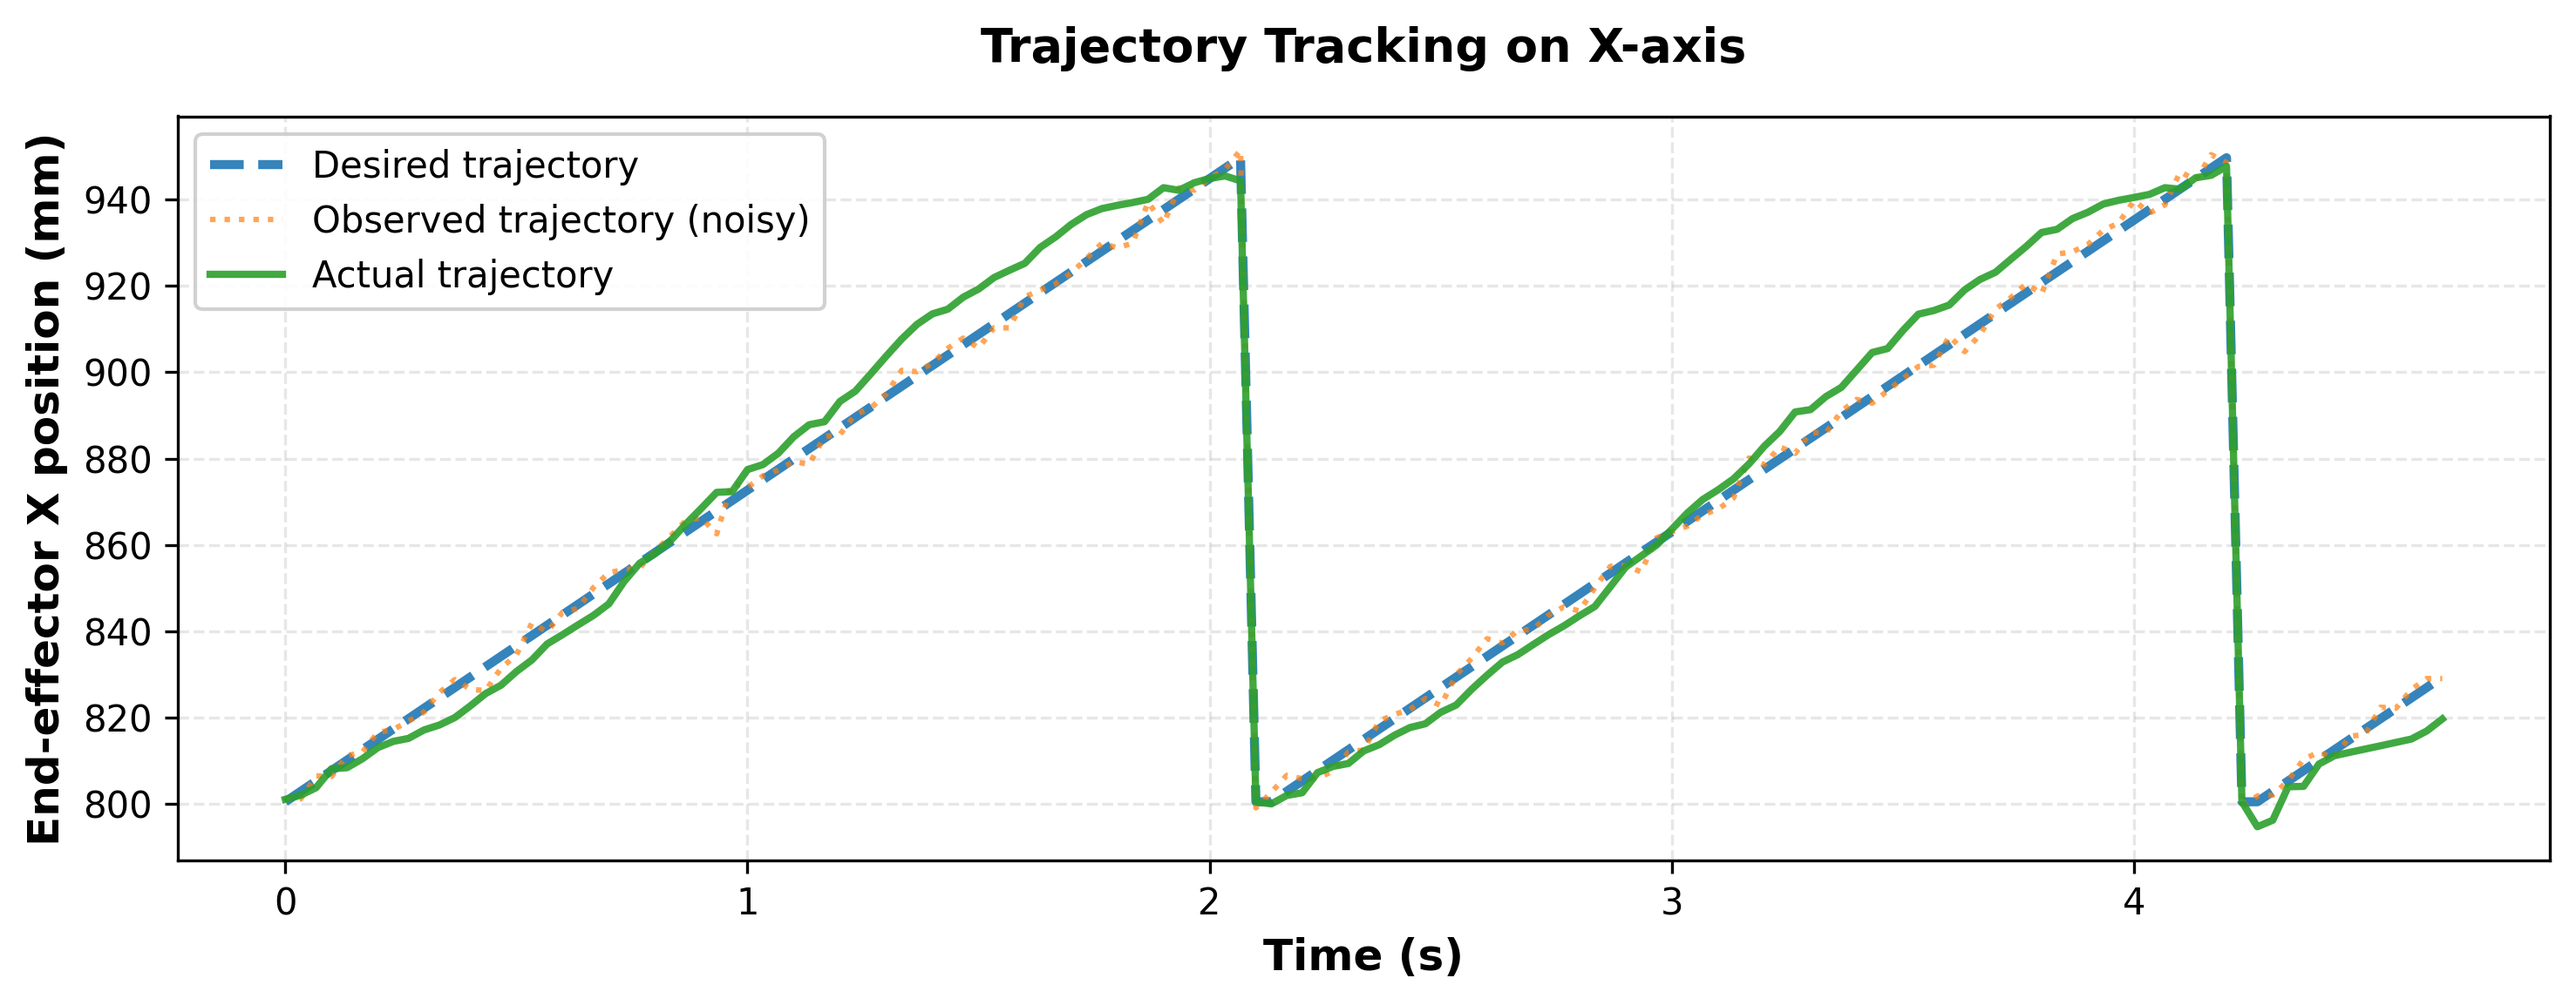
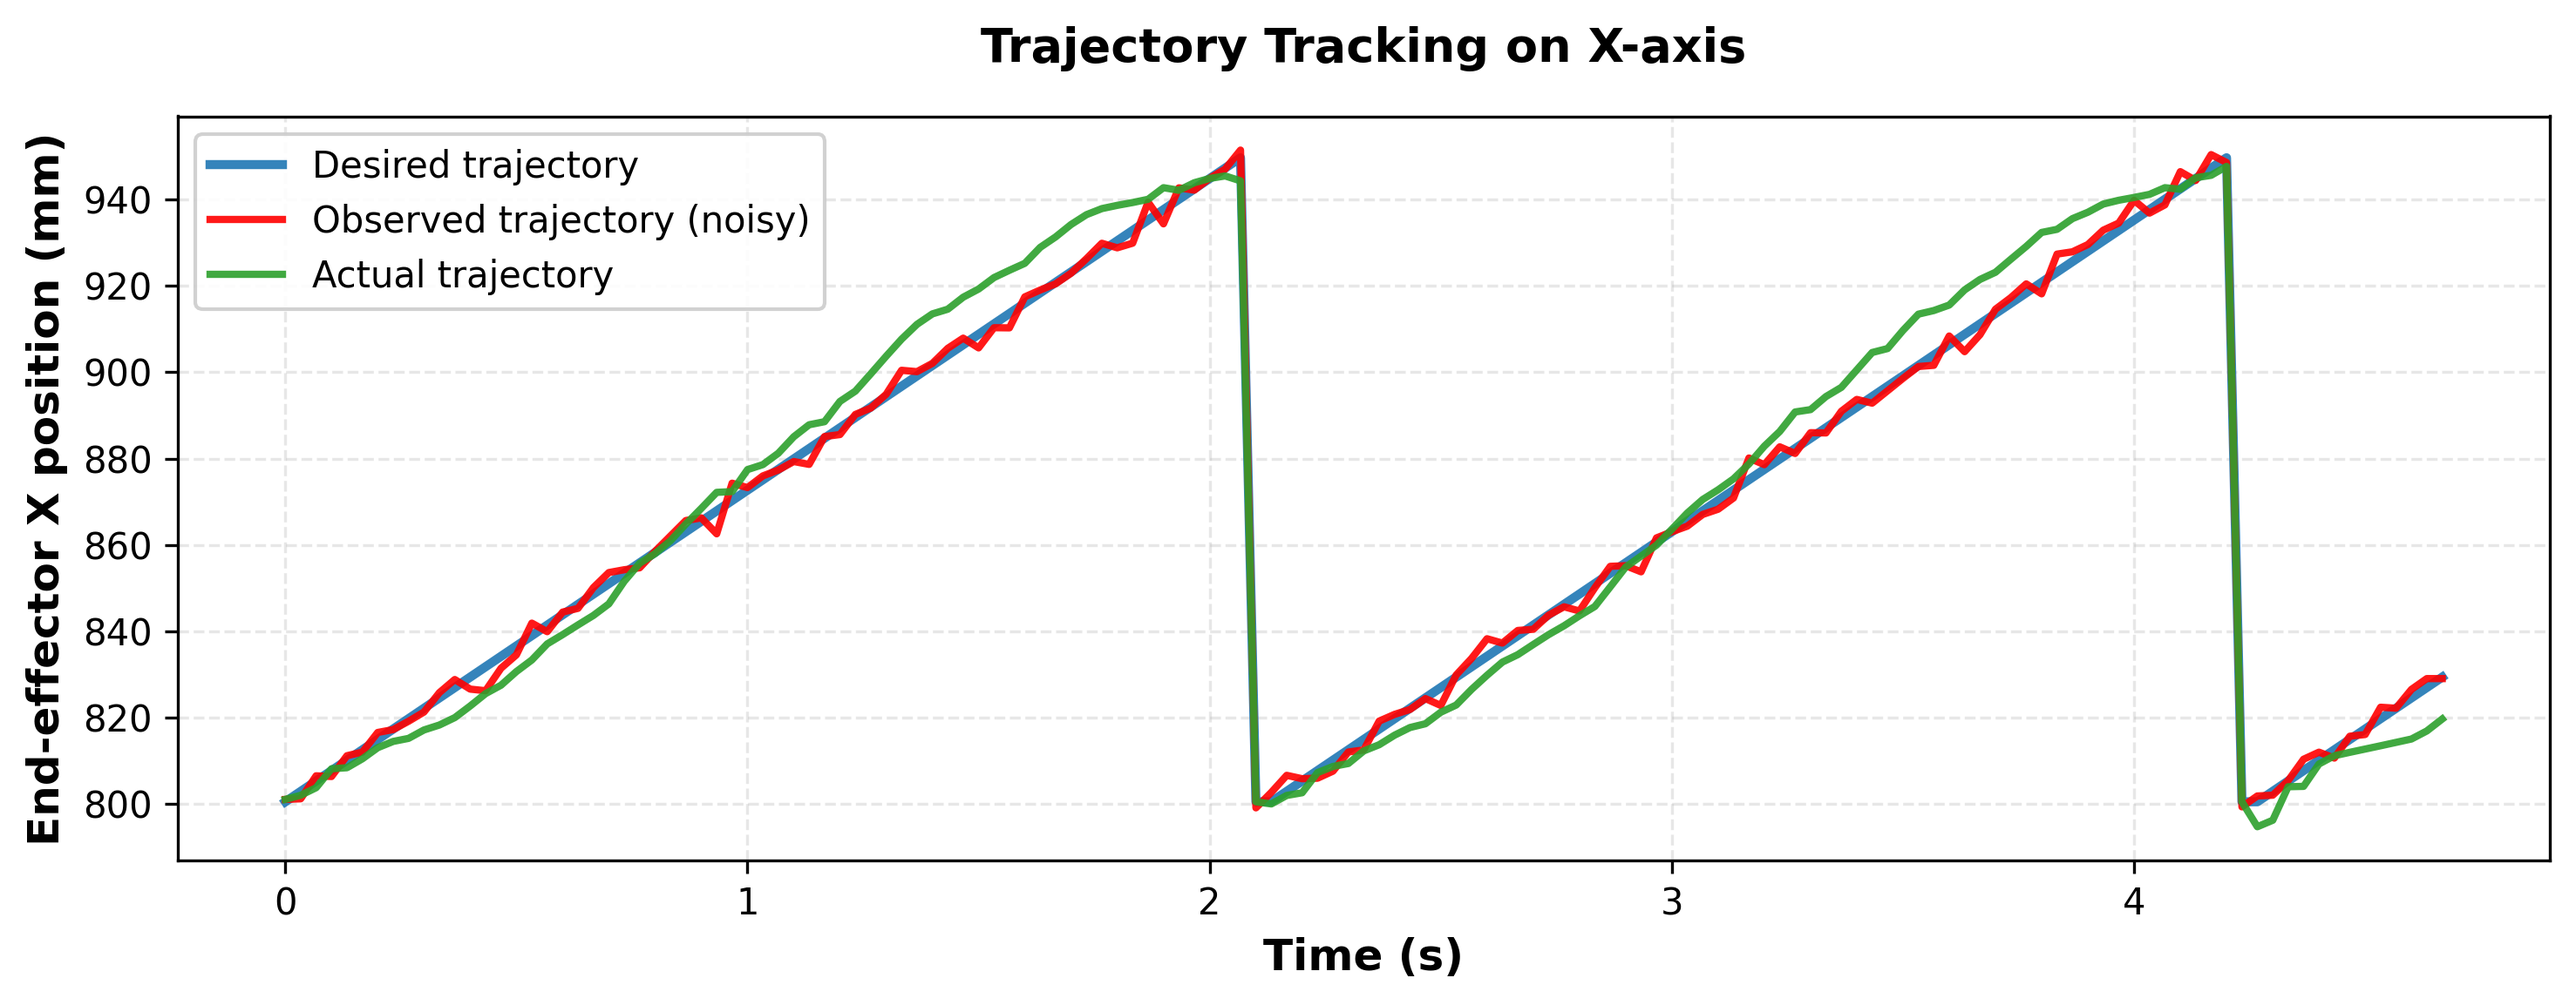
Update report chapters and figures

diff --git a/chapters/chapitre4_phase2_training.tex b/chapters/chapitre4_phase2_training.tex
@@ -114,6 +114,18 @@ To bridge the sim-to-real gap, we explicitly model real-world imperfections in t
 
 This comprehensive noise modeling ensures the learned policy is robust to real-world uncertainties rather than overfitting to perfect simulation conditions.
 
+\subsection{Proximal Policy Optimization (PPO)}
+
+We use Proximal Policy Optimization (PPO) \cite{schulman2017proximal}, a state-of-the-art policy gradient algorithm chosen for its stability and sample efficiency in continuous robotic control. PPO constrains policy updates through a clipped objective function that prevents large destructive changes, ensuring monotonic improvement while reusing collected experience through mini-batch optimization.
+
+\textbf{Learning from rewards.} PPO iteratively improves the policy $\pi_\theta$ by maximizing the clipped surrogate objective:
+\begin{equation}
+L^{CLIP}(\theta) = \mathbb{E}_t \left[ \min\left(r_t(\theta) \hat{A}_t, \text{clip}(r_t(\theta), 1-\epsilon, 1+\epsilon) \hat{A}_t \right) \right]
+\end{equation}
+where $r_t(\theta) = \frac{\pi_\theta(a_t|s_t)}{\pi_{\theta_{old}}(a_t|s_t)}$ is the probability ratio and $\epsilon=0.2$ limits update magnitude. The advantage $\hat{A}_t$ measures how much better an action is compared to average, estimated using Generalized Advantage Estimation (GAE) from our reward signal.
+
+The exponential reward kernel $\exp(-\|e_{pos}\|^2/\sigma^2)$ provides dense, differentiable gradients at every timestep, enabling PPO to learn from incremental improvements. The velocity and acceleration penalties naturally shape smooth corrections, while the bonus term accelerates convergence toward sub-centimeter accuracy. Across 4096 parallel environments, PPO collects diverse experiences and updates the policy to balance precision, smoothness, and energy efficiency.
+
 \subsection{PPO Agent Architecture}
 
 \textbf{Observation space ($S_t$, dimension 40).} The agent observes:
@@ -134,7 +146,7 @@ where $a_{ref}(t)$ comes from the MoveIt2 trajectory and $a_{residual}(t)$ is th
 
 \subsection{Reward Function}
 
-The reward function is designed to maximize tracking precision while minimizing jerky movements and energy consumption. We use an exponential kernel to provide dense, bounded rewards within $[0, 1]$:
+The reward function is the critical signal that drives PPO's learning process. It defines what constitutes "good" behavior and directly shapes the learned policy. Our reward is designed to maximize tracking precision while minimizing jerky movements and energy consumption. We use an exponential kernel to provide dense, bounded rewards within $[0, 1]$:
 
 \begin{equation}
 r_t = \underbrace{\exp\left(-\frac{\|e_{pos}\|^2}{\sigma_{pos}^2}\right)}_{r_{tracking}}
@@ -180,37 +192,19 @@ This efficient learning process demonstrates the effectiveness of the residual f
 To better understand the agent's behavior, we analyze the evolution of specific reward terms during training (as shown in the subplots of Figure~\ref{fig:learning_curve}):
 
 \begin{itemize}
+    \item \textbf{Mean Episode Reward:} The primary metric showing the agent's performance. It starts near zero and rapidly increases, reaching a plateau around reward value of 0.8-0.9. This exponential growth demonstrates that the agent successfully learned to minimize tracking error while respecting smoothness constraints. The stable convergence without oscillations indicates robust learning.
+    
+    \item \textbf{Mean Episode Length:} Tracks how long episodes run before termination. Initially very short (25-30 steps) due to frequent failures, it quickly increases to the maximum of 64 steps, showing that the agent learned to complete entire trajectories without early termination.
+    
     \item \textbf{Policy Loss (policy\_loss):} This metric starts high and decreases, reflecting the optimization of the actor network. The fluctuations indicate the continuous adjustment of the policy to find better actions.
     
     \item \textbf{Value Loss (value\_loss):} The value function estimator (Critic) rapidly reduces its prediction error. A low stable value loss means the Critic accurately predicts the expected return of the current state, which is crucial for stable PPO training.
     
     \item \textbf{Entropy (entropy):} The entropy curve shows a gradual decrease. Initially high, it encourages exploration of random actions. As training progresses, the agent becomes more confident in its optimal strategy, and the distribution of actions narrows (less randomness).
     
-    \item \textbf{Kl Divergence (kl\_div):} This metric monitors the difference between the old and new policy after each update. It remains bounded within a small range, confirming that the PPO clipping mechanism effectively prevents destructive large updates that could collapse the policy.
+    \item \textbf{Explained Variance (explained\_var):} Measures how well the value function predicts returns. Values close to 1.0 indicate excellent predictions, confirming the Critic's accuracy in estimating future rewards.
     
-    \item \textbf{Clip Fraction (clip\_frac):} This indicates how often the policy update was "clipped" by PPO constraints. A moderate value suggests that the algorithm is aggressively trying to improve the policy while being constrained to safe update steps.
+    \item \textbf{Learning Rate (lr):} Shows the adaptive learning rate schedule. It may decrease over time to allow finer policy adjustments as training progresses, ensuring stable convergence in later stages.
 \end{itemize}
 
-\subsubsection{Episode Length Analysis}
-
-\begin{figure}[htbp]
-    \centering
-    \includegraphics[width=0.8\textwidth]{images/meanreward.png}
-    \caption{Mean episode length and standard deviation during training.}
-    \label{fig:episode_length}
-\end{figure}
-
-Figure~\ref{fig:episode_length} shows the evolution of episode length during training. The mean episode length rapidly increases from approximately 25 steps to around 65 steps and stabilizes at this level. This metric provides crucial insight into the agent's task completion efficiency:
-
-\begin{itemize}
-    \item \textbf{Initial Phase (0-1000 iterations):} Episodes are very short because the agent frequently fails to reach the target or violates workspace constraints, triggering early termination. The low episode length reflects poor performance.
-    
-    \item \textbf{Learning Phase (1000-4000 iterations):} The sharp increase in episode length indicates that the agent is learning to maintain tracking and successfully complete longer trajectory segments without failure.
-    
-    \item \textbf{Mature Policy (>4000 iterations):} The stable plateau at 65 steps shows that the agent consistently completes full episodes. The maximum episode length is capped at 64 steps by design (trajectory duration), meaning the policy achieves near-perfect success rate in following the entire reference trajectory.
-    
-    \item \textbf{Low Standard Deviation:} The very small variance in episode length (shown in the right subplot) confirms the policy's reliability and consistency across different trajectory scenarios.
-\end{itemize}
-
-This metric complements the reward curve by quantifying task completion: a high reward could theoretically be achieved on short episodes, but high episode length with high reward proves that the agent successfully tracks entire trajectories.
 

diff --git a/chapters/chapitre5_phase3_validation.tex b/chapters/chapitre5_phase3_validation.tex
@@ -16,7 +16,7 @@ The achieved success rate exceeds 95\% on a test set comprising random trajector
 
 \begin{table}[htbp]
 \centering
-\caption{Comparaison des métriques de performance entre les approches Open-Loop et Closed-Loop RL.}
+\caption{Comparison of performance metrics between Open-Loop and Closed-Loop RL approaches.}
 \label{tab:performance}
 
 \begin{tabular}{lccc}
@@ -59,16 +59,20 @@ Figure~\ref{fig:error_comparison} shows the position error norm over time. The r
     \label{fig:trajectory_x}
 \end{figure}
 
-Figure~\ref{fig:trajectory_x} shows end-effector position along the X-axis. The blue dashed line represents the ideal reference trajectory, the orange dotted line shows noisy observations with sensor noise and calibration errors, and the green solid line indicates the actual executed trajectory. The RL agent tracks the reference with 5.3mm average error on X-axis, demonstrating robustness to observation noise by filtering rather than blindly following noisy measurements.
+Figure~\ref{fig:trajectory_x} illustrates end-effector tracking along the X-axis over a complex trajectory with multiple phases. The blue line represents the desired reference trajectory from MoveIt, exhibiting three distinct motion segments: a smooth ascent (0-2s, 800mm→945mm), an abrupt return to origin (t≈2s), a second ascent phase (2-4s), and a final rapid descent (t≈4s). The red curve shows the observed trajectory corrupted by sensor noise (±2mm Gaussian jitter) and systematic calibration error (±20mm bias), creating high-frequency oscillations around the true position. 
+
+The green curve demonstrates the RL agent's actual executed trajectory. Despite receiving noisy observations, the agent maintains tight tracking of the desired reference with 5.3mm mean error. Critically, the agent does not blindly follow the noisy measurements but instead acts as an intelligent filter: it extracts the underlying signal from corrupted observations while maintaining smooth motion. Even during rapid direction changes at t=2s and t=4s where noise peaks occur, the RL policy remains stable without overshoot or oscillation, demonstrating robust closed-loop control that compensates for both perception errors and dynamic disturbances.
 
 \begin{figure}[htbp]
     \centering
     \includegraphics[width=0.95\textwidth]{images/fig4_joint_j4_strategy.png}
-    \caption{Joint J4 (wrist\_1) position comparison. Top: open-loop tracking shows deviation from reference. Bottom: closed-loop RL applies a bias of +0.63° on J4 to improve end-effector accuracy.}
+    \caption{Joint J4 (wrist\_1) position comparison. Top: open-loop executes MoveIt reference perfectly but suffers from calibration errors at task-space level. Bottom: closed-loop RL intentionally deviates by +0.63° to compensate for systematic errors.}
     \label{fig:joint_j4}
 \end{figure}
 
-Figure~\ref{fig:joint_j4} reveals the RL correction strategy at joint level for J4 (wrist\_1). Top panel: open-loop tracking follows the reference perfectly but leads to end-effector errors. Bottom panel: the RL policy systematically applies a +0.63\textdegree\ bias to J4. The gap between the reference (blue dashed) and RL-corrected target (orange dotted) shows this proactive compensation. This consistent bias compensates for systematic errors (gravity, friction, calibration) and exploits kinematic redundancy to improve end-effector accuracy without compromising motion quality.
+Figure~\ref{fig:joint_j4} reveals the fundamental difference between open-loop and closed-loop control at the joint level for J4 (wrist\_1). \textbf{Top panel (Open-Loop):} The robot perfectly tracks the MoveIt reference trajectory (blue curve matches executed joint positions). There is \textit{no joint-level tracking error} because the controller faithfully executes the planned joint commands. However, this reference was computed using an erroneous camera calibration — therefore, despite perfect joint tracking, the end-effector misses its Cartesian target by 28mm on average.
+
+\textbf{Bottom panel (Closed-Loop RL):} The RL agent intentionally deviates from the reference by applying a systematic +0.63\textdegree\ bias on J4. This is not tracking error but a \textit{deliberate correction}. The gap between the blue reference and the orange executed trajectory shows that the agent has learned to compensate for the calibration error by exploiting kinematic redundancy. By slightly adjusting this wrist joint, the policy corrects the end-effector position without requiring recalibration or replanning. This demonstrates intelligent closed-loop compensation: the agent "knows" the reference is biased and proactively corrects it to achieve the true task-space objective.
 
 \begin{figure}[htbp]
     \centering

diff --git a/main.tex b/main.tex
@@ -38,7 +38,7 @@
 \titleformat{\chapter}[hang]
   {\normalfont\huge\bfseries}{\thechapter}{1em}{}
 
-\title{\textbf{Reinforcement Learning for Sim2Real and path following in Isaaclab with Ur10}}
+\title{\textbf{Reinforcement Learning for Sim2Real and Path Following in Isaaclab with UR10}}
 \author{
     \textbf{Auteurs :} \\
     RAFANIAINA Jeovani \\
@@ -67,7 +67,7 @@
         \includegraphics[width=0.9\linewidth]{images/logoEEA.png}
     \end{minipage}\\[1.5cm]
 
-    {\Huge \textbf{Reinforcement Learning for Sim2Real and path following in Isaaclab with Ur10} \par}
+    {\Huge \textbf{Reinforcement Learning for Sim2Real and Path Following in Isaaclab with UR10} \par}
     
     \vspace{1.5cm}
 
@@ -76,14 +76,19 @@
     RAFARANIAINA Jeovani \\
     VOGELGESANG Luca \\[1cm]
     \textbf{Supervisor :} \\
-    CHAO Liu 
+    Chao LIU  
     \par}
 
     \vspace{1.5cm}
 
     \textbf{\Large Abstract}\\[0.5cm] 
     \parbox{0.9\linewidth}{
-        This thesis presents the development of a robotic control pipeline combining classical motion planning (MoveIt on ROS2) and reinforcement learning (PPO on Isaac Lab) for a UR10 manipulator. The system implements a residual learning approach where a learned policy corrects trajectories generated by a traditional planner to compensate for calibration errors and perception noise. Due to time constraints limiting tests on the physical robot, the validation strategy focuses on demonstrating robustness through extensive domain randomization within Isaac Lab, simulating various real-world conditions. The trained policy is evaluated on unseen scenarios with randomized dynamics, sensor noise, and calibration errors, providing evidence of potential transferability to the real robot.
+        This thesis presents the development of a robotic control pipeline combining classical motion planning (MoveIt on ROS2) and reinforcement
+         learning (PPO on Isaac Lab) for a UR10 manipulator. The system implements a residual learning approach where a learned policy corrects
+          trajectories generated by a traditional planner to compensate for calibration errors and perception noise. Due to time constraints limiting
+           tests on the physical robot, the validation strategy focuses on demonstrating robustness through extensive domain randomization within Isaac 
+           Lab, simulating various real-world conditions. The trained policy is evaluated on unseen scenarios with randomized dynamics, sensor noise, 
+           and calibration errors, providing evidence of potential transferability to the real robot.
     }
 
     \vfill
